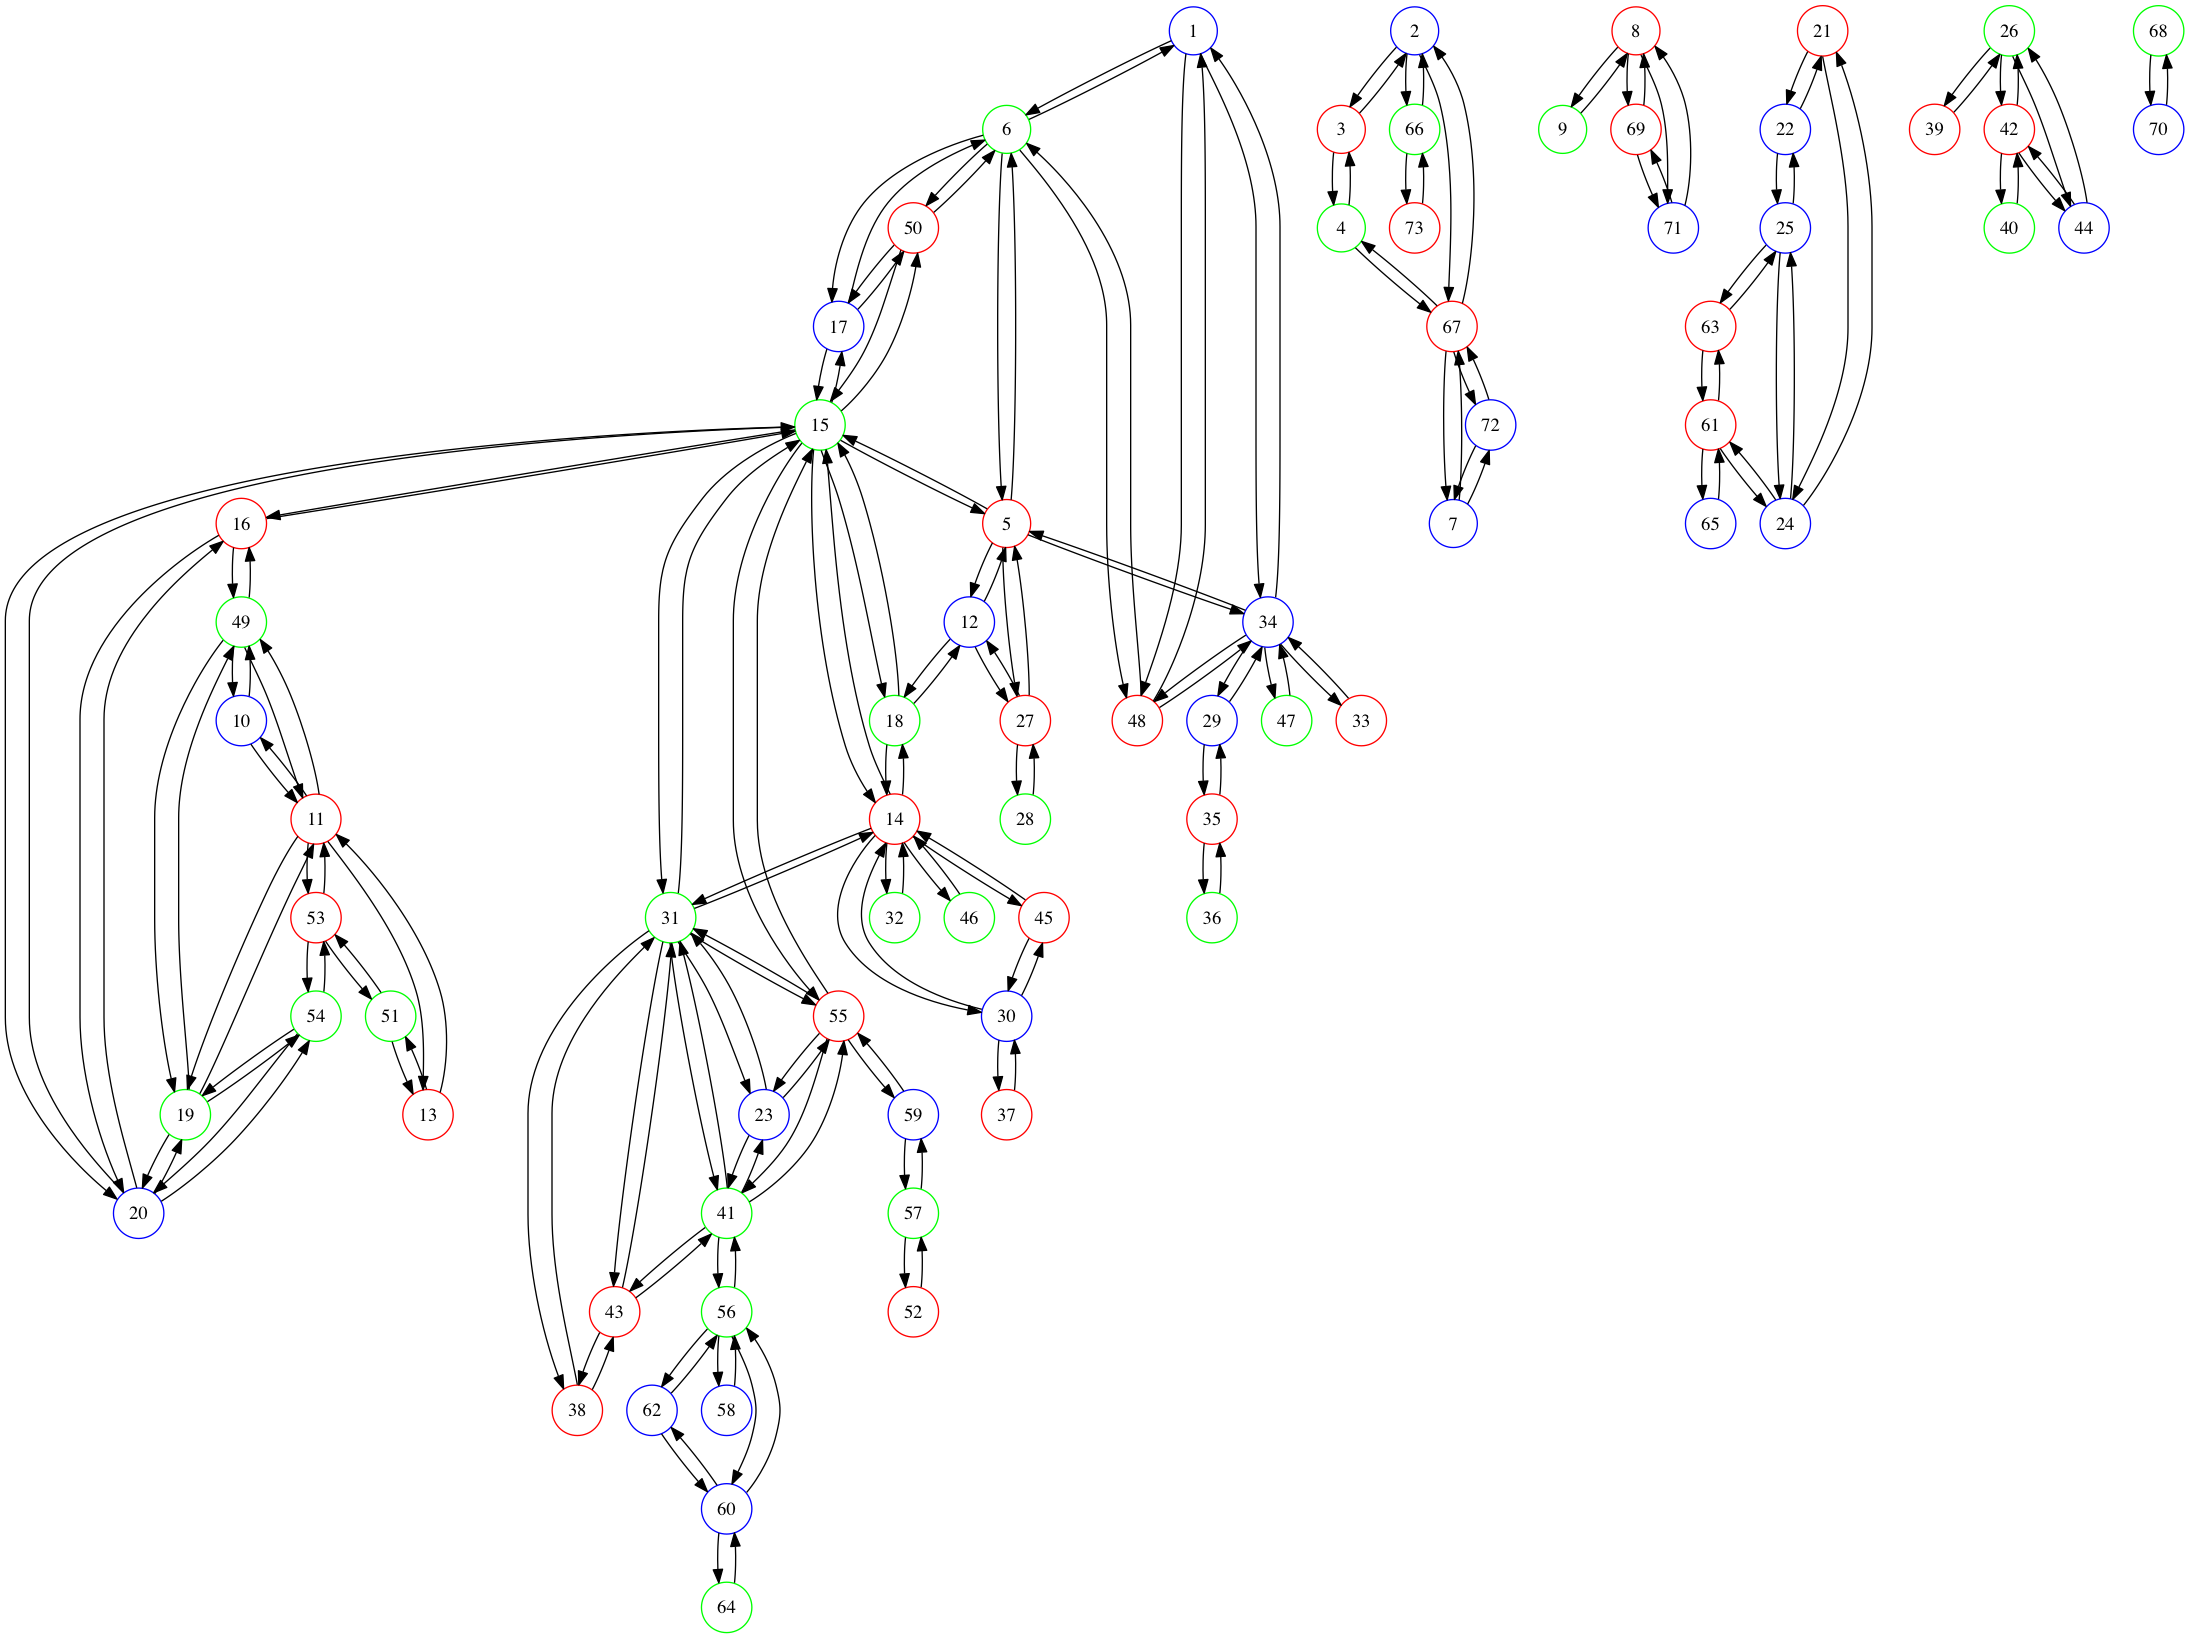
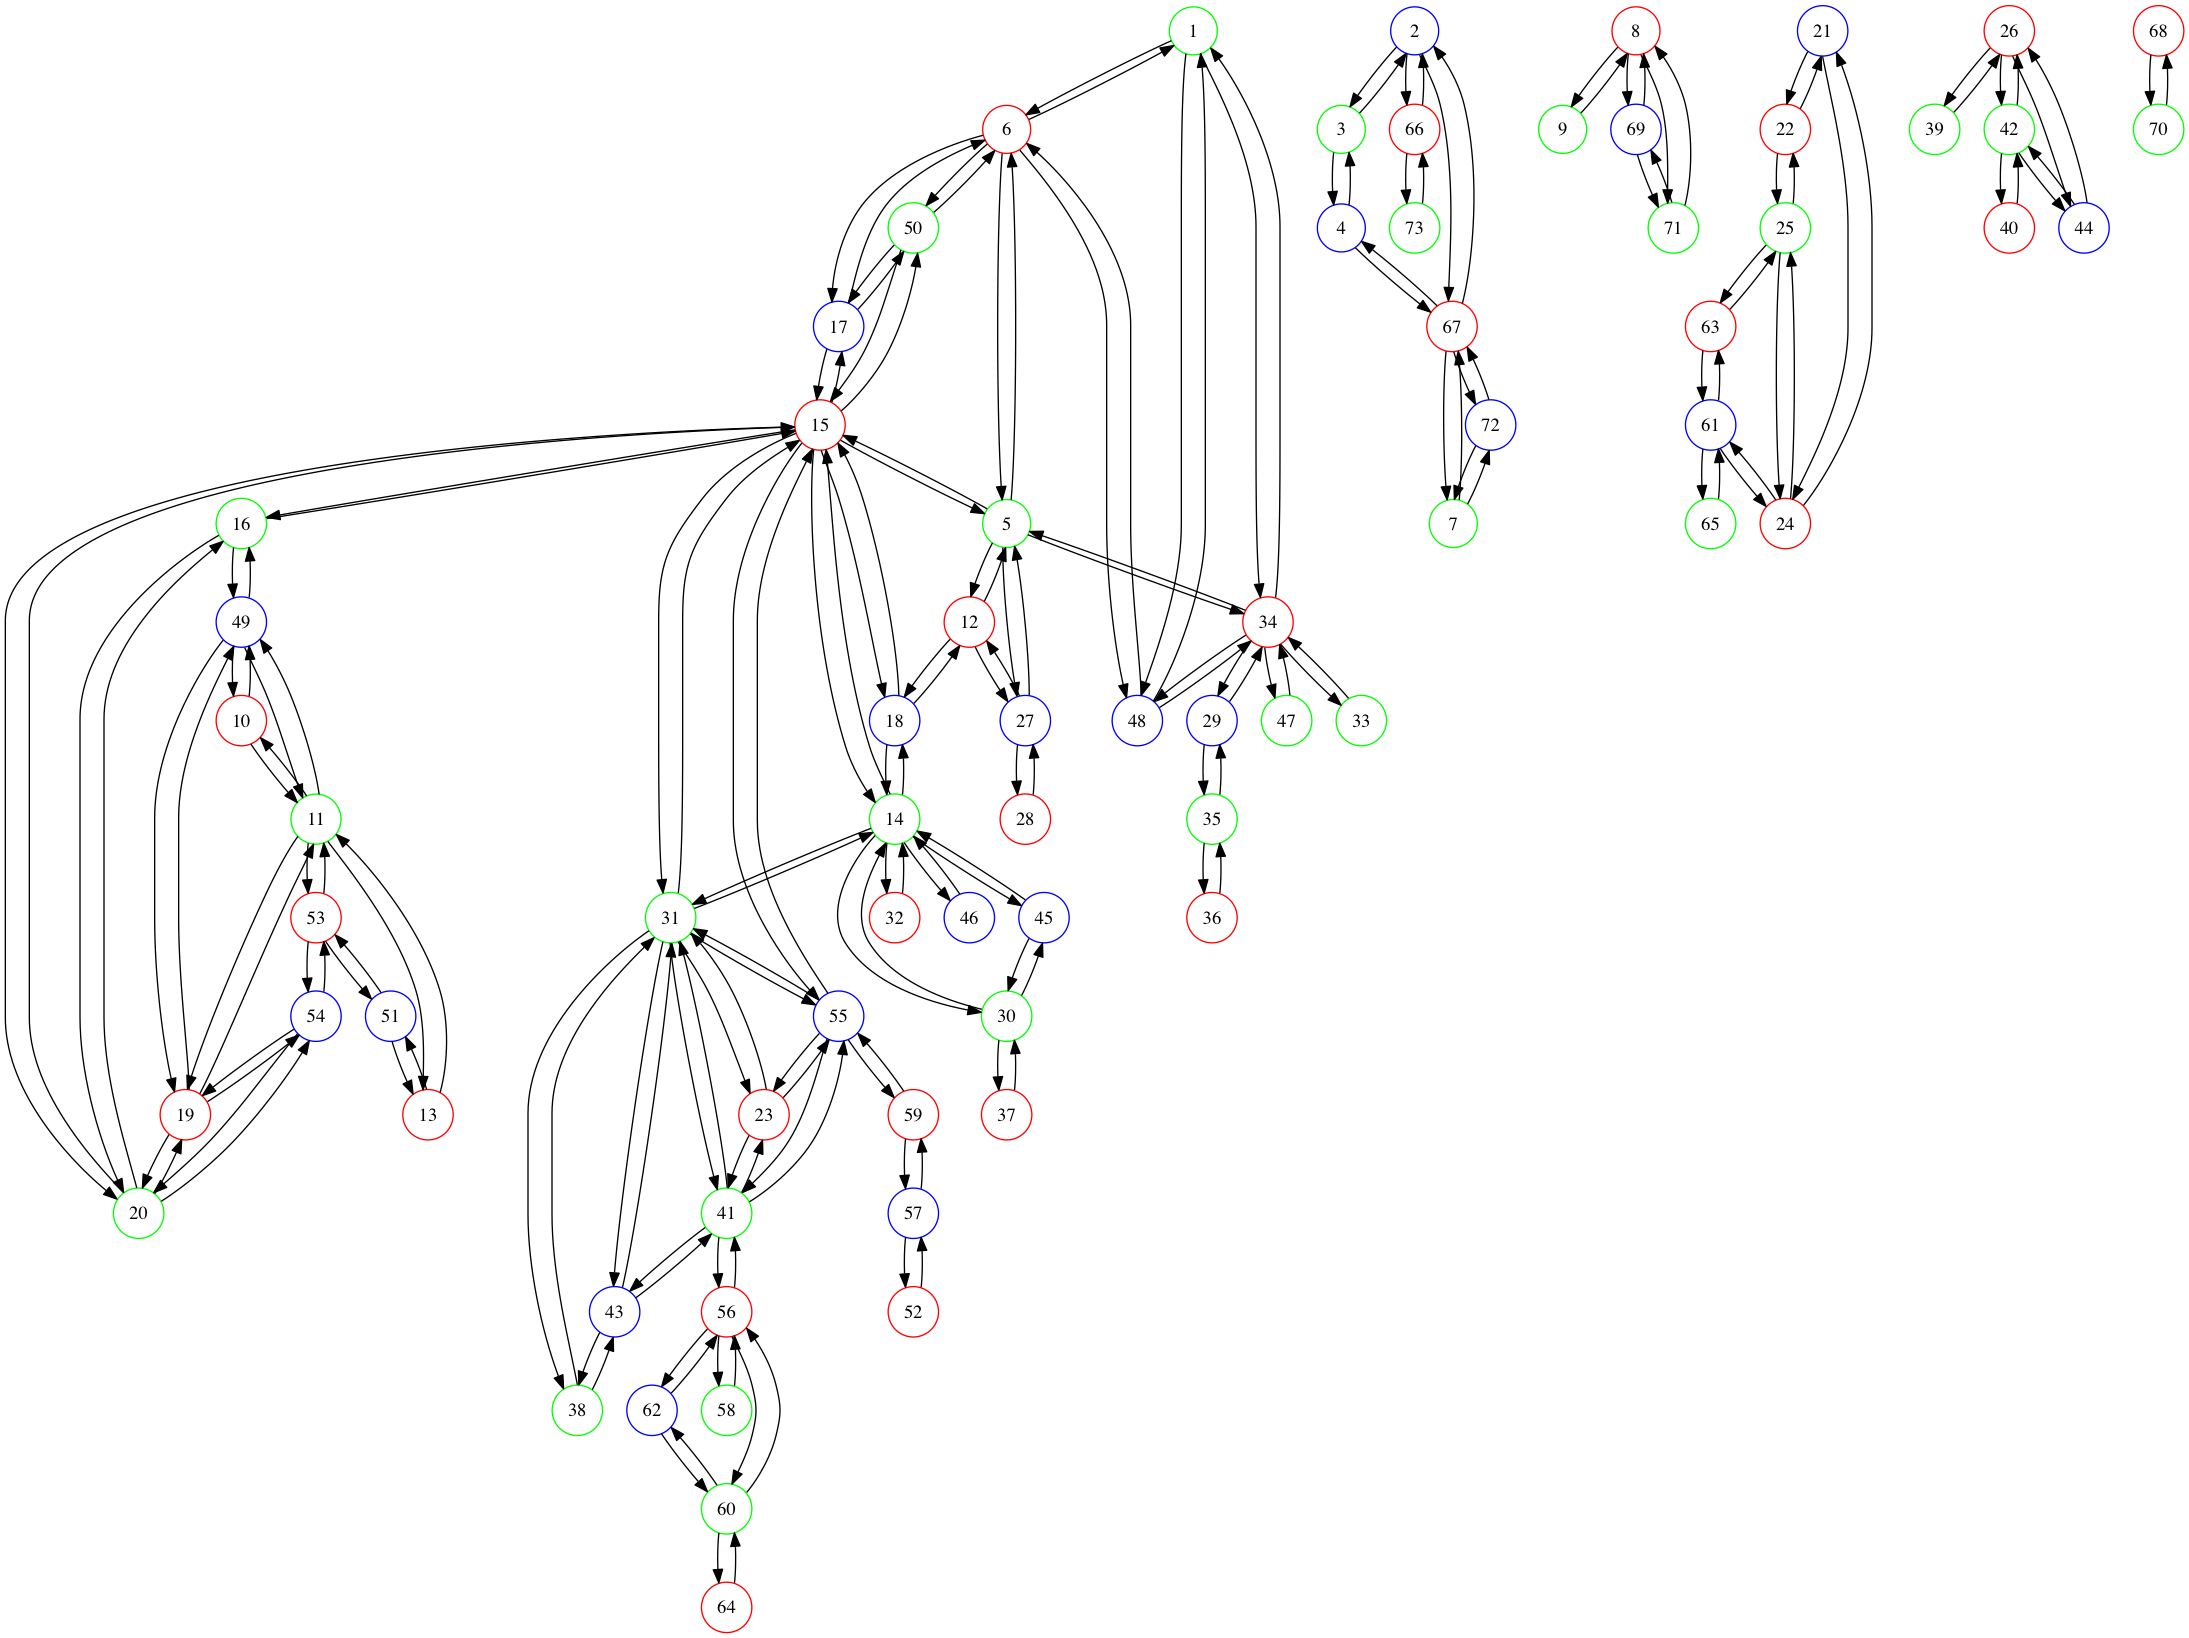
Latest changes

Changed region(s): [[0.9941, 0.0623, 1.0, 0.0934], [0.9941, 0.0, 1.0, 0.0311]]

diff --git a/src/Chromabits/Forest/Runner.php b/src/Chromabits/Forest/Runner.php
@@ -26,6 +26,10 @@ class Runner
     protected $bestSolutionTotal = -1;
     protected $bestSolutionViolations = -1;
 
+    protected $bestSoFar = [];
+    protected $bestSoFarTotal = -1;
+    protected $bestSoFarViolations = -1;
+
     protected $attemptsPerNode = 3;
     protected $attempted = [];
 
@@ -149,9 +153,15 @@ class Runner
         return $totalVolume;
     }
 
-    public function renderGraph()
+    public function renderGraph($soFar = false)
     {
         $graph = new Digraph('G');
+
+        $collection = $this->cutBranches;
+
+        if ($soFar) {
+            $collection = $this->bestSoFar;
+        }
 
         foreach ($this->cutBranches as $cutBranch) {
             switch ($cutBranch->getTimePeriod()) {
@@ -183,6 +193,10 @@ class Runner
         $dot = new Process('dot -Tpng -o test.png');
         //$dot = new Process('dot');
 
+        if ($soFar) {
+            $dot = new Process('dot -Tpng -o sofar.png');
+        }
+
         $dot->setInput($gv);
 
         $dot->run();
@@ -193,6 +207,11 @@ class Runner
     public function process($iterations, $fixIterations, $pickIterations = 1)
     {
         for ($i = 0; $i < $iterations; $i++) {
+            // Try to fix leafs first
+            foreach ($this->getViolations(null) as $violation) {
+                $violation->pickBestIfLeaf();
+            }
+
             for ($j = 0; $j < $pickIterations; $j++) {
                 try {
                     $this->processRandomUnit($fixIterations);
@@ -225,6 +244,17 @@ class Runner
                     }
                 }
             } else {
+                $currentTotal = $this->getTotalVolume();
+
+                // If best so far keep
+                if ($this->bestSoFarTotal == -1 || $this->bestSoFarTotal > $currentTotal) {
+                    foreach ($this->cutBranches as $key => $cutBranch) {
+                        $this->bestSoFar[$key] = clone $cutBranch;
+                    }
+
+                    $this->bestSoFarTotal = $currentTotal;
+                }
+
                 // Revert
                 foreach ($this->bestSolution as $key => $cutBranch) {
                     $this->cutBranches[$key] = clone $cutBranch;
@@ -233,9 +263,10 @@ class Runner
 
             echo 'CURRENT: ' . $this->getTotalVolume() . "\n";
             echo 'Violations: ' . count($this->getViolations(null)) . "\n";
+            echo 'BEST SO FAR: ' . $this->bestSoFarTotal. "\n";
 
             if ($i % 20 == 0) {
-                $this->renderGraph();
+                $this->renderGraph(true);
             }
         }
 
@@ -245,7 +276,7 @@ class Runner
 
     public function pickUnitA()
     {
-        $violations = array_values($this->getViolations(null));
+        $violations = array_values($this->getViolations());
 
         if (count($violations) == count($this->attempted)) {
             echo 'Exhausted' . "\n";
@@ -266,10 +297,16 @@ class Runner
             return $unitA;
         }
 
+        if (count($violations) == 0) {
+            return -1;
+        }
+
+
         // Introduce a random change somewhere
         $unitAIndex = rand(1, (count($this->cutBranches)));
 
         //$this->cutBranches[$unitAIndex]->setRandomTimePeriod();
+        $this->cutBranches[$unitAIndex]->pickBest();
 
         return $this->cutBranches[$unitAIndex];
     }
@@ -278,6 +315,11 @@ class Runner
     {
         // Pick a random unit A
         $unitA = $this->pickUnitA();
+
+        if ($unitA === -1) {
+            echo 'No more violations: ' . $this->getTotalVolume() . "\n";
+            return;
+        }
 
         //echo 'Picked: ' . $unitA->getId() . "\n";
         //echo 'Volume before: ' . $this->getTotalVolume() . "\n";
@@ -335,7 +377,7 @@ class Runner
         $violations = [];
 
         foreach ($this->cutBranches as $cutBranch) {
-            if (!is_null($cutBranch) && $cutBranch == $except) {
+            if (!is_null($except) && $cutBranch == $except) {
                 continue;
             }
 

diff --git a/src/Chromabits/Forest/Entities/CutBranch.php b/src/Chromabits/Forest/Entities/CutBranch.php
@@ -231,4 +231,21 @@ class CutBranch extends Branch
             }
         }
     }
+
+    public function pickBest()
+    {
+        $options = [
+            1 => $this->tp1Vol,
+            2 => $this->tp2Vol,
+            3 => $this->tp3Vol
+        ];
+
+        $max = max($options);
+
+        foreach ($options as $tp => $vol) {
+            if ($vol == $max) {
+                $this->timePeriod = $tp;
+            }
+        }
+    }
 } 

diff --git a/src/Chromabits/Forest/Console/ForestCommand.php b/src/Chromabits/Forest/Console/ForestCommand.php
@@ -35,7 +35,7 @@ class ForestCommand extends Command
 
         //$runner->renderGraph();
 
-        $runner->process(5000,10);
+        $runner->process(10000,20);
         //$runner->processRandomUnit(1);
 
         $runner->renderGraph();
